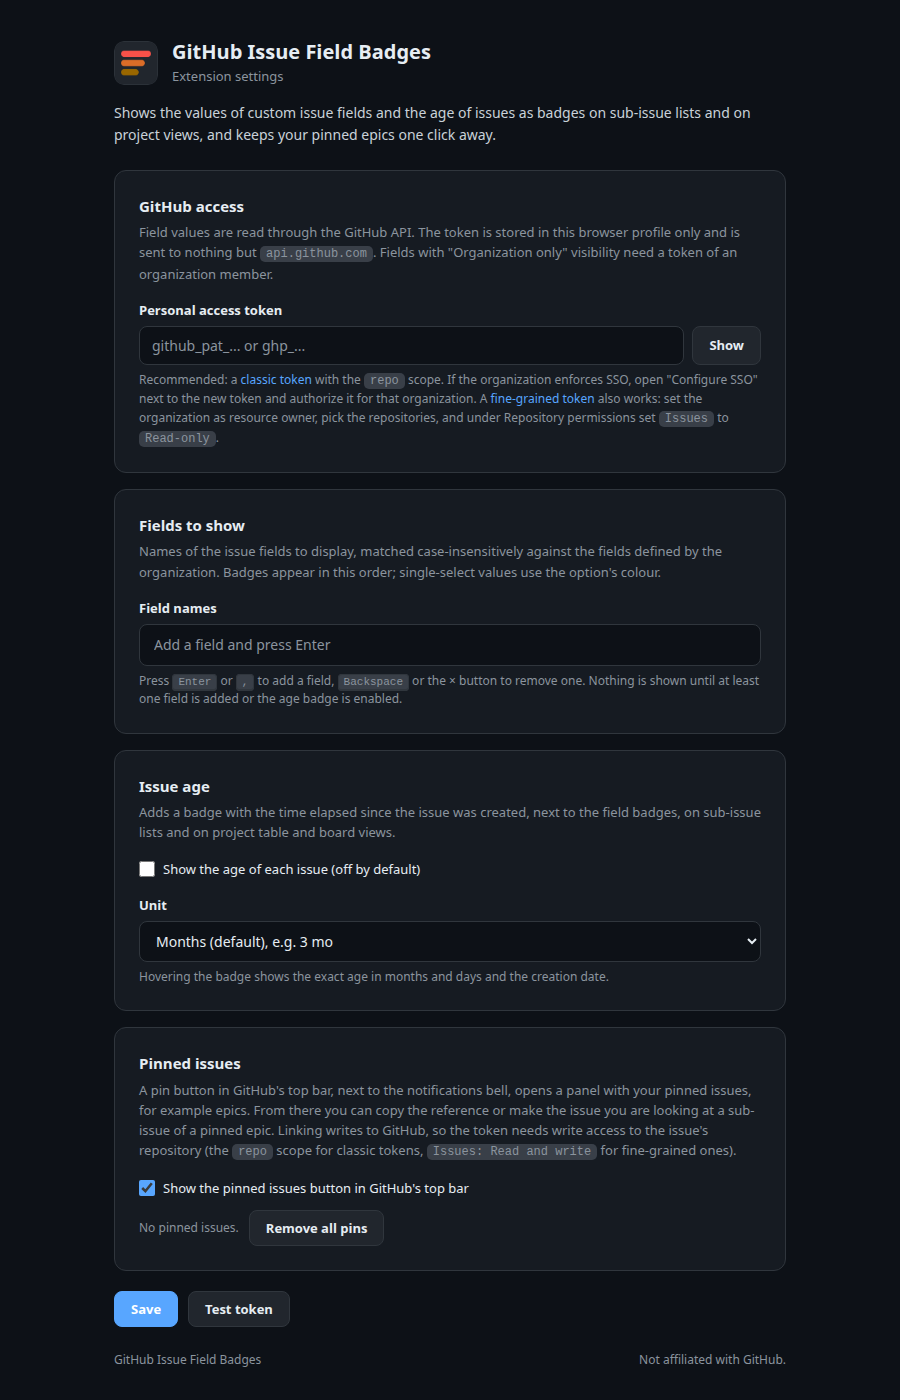
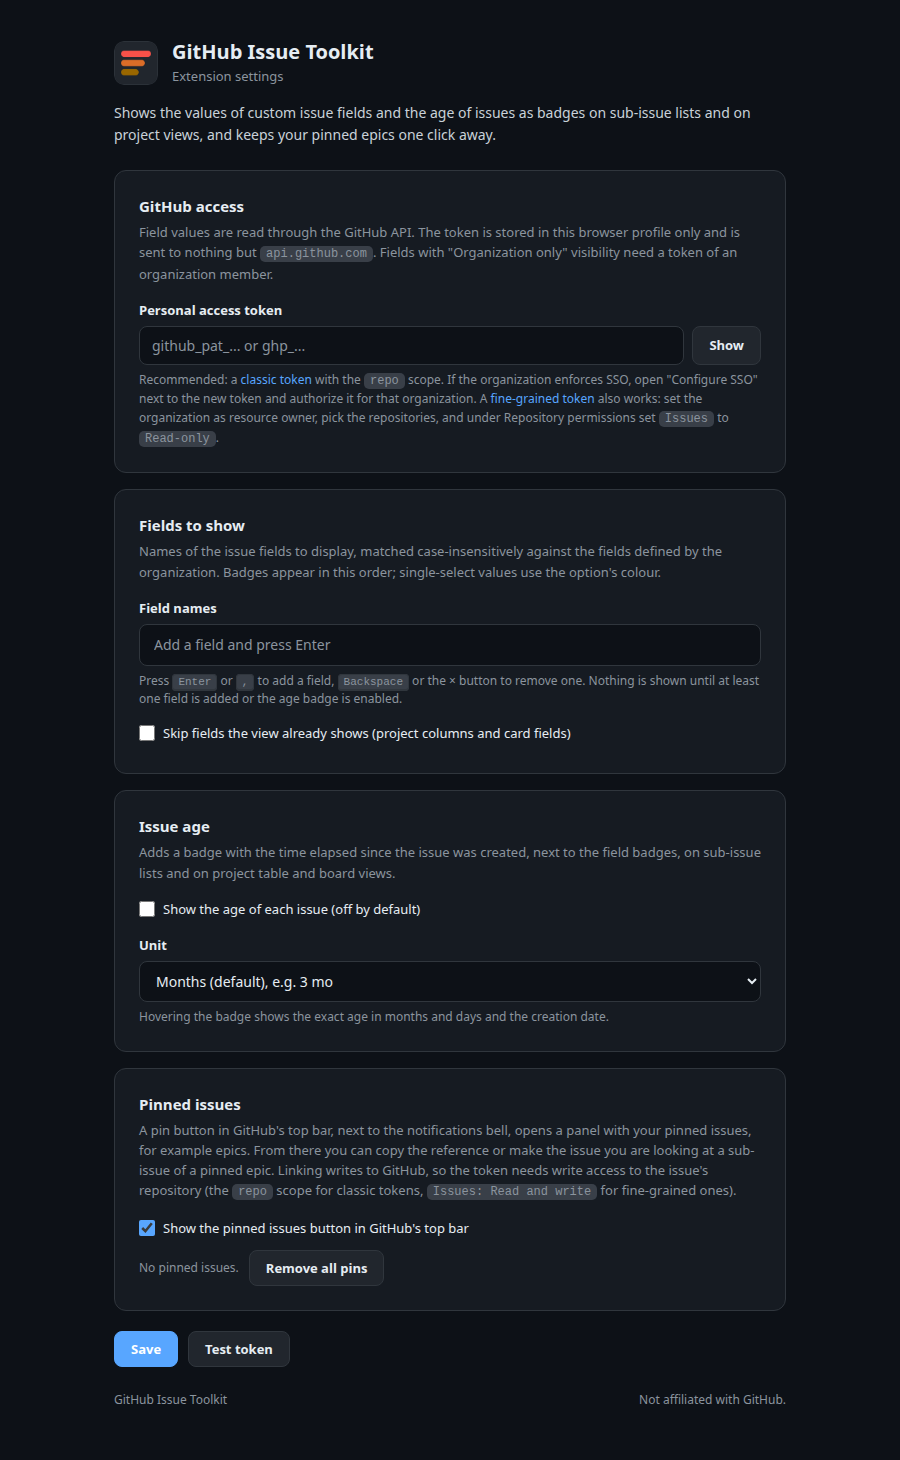
feat(projects): skip fields the view already shows
A project view often displays some of the same fields the badges carry, as a column in the table layout or as a field chip on a board card, so the badge only repeated what was already on screen.

- Board cards: the fields GitHub renders in the card's "Fields" list are read from their "Field: value" tooltips and matching badges are not added.
- Table layout: column names are read from the grid's column headers, taking the header's first text and ignoring the "column options" menu label, and matching badges are not added.
- A new setting on the fields card, on by default, turns the behaviour off for people who want the badge regardless.
- README, site, changelog and settings screenshots describe the option; manifests and the version chip fallback move to the new patch version.

diff --git a/docs/index.html b/docs/index.html
@@ -273,7 +273,7 @@
       <img class="only-dark" src="icon-dark-48.png" alt="">
       <img class="only-light" src="icon-light-48.png" alt="">
       <a class="brand" href="#top">GitHub Issue Toolkit</a>
-      <a class="version" id="version" href="https://github.com/MilosPaunovic/github-issue-toolkit/releases/latest" title="Latest release">v2.0.4</a>
+      <a class="version" id="version" href="https://github.com/MilosPaunovic/github-issue-toolkit/releases/latest" title="Latest release">v2.0.5</a>
       <div class="links" id="site-menu">
         <a class="link" href="#what">What it does</a>
         <a class="link" href="#examples">Examples</a>
@@ -336,7 +336,7 @@
         <div class="card"><h3>Any field, any type</h3><p>Single-select, multi-select, text, number and date fields all work. Single-select badges use the colour of the chosen option, so a red option stays red.</p></div>
         <div class="card"><h3>You pick the fields</h3><p>Choose which fields to show and in what order on the settings page. One field or five, per your workflow.</p></div>
         <div class="card"><h3>One request per page</h3><p>All visible rows, across repositories, are fetched in batched GitHub GraphQL queries of 60 issues. Results are cached for five minutes.</p></div>
-        <div class="card"><h3>Projects views too</h3><p>The same badges appear on GitHub Projects: after the issue number in the table layout, under the title on board cards. Draft items and pull requests are left alone.</p></div>
+        <div class="card"><h3>Projects views too</h3><p>The same badges appear on GitHub Projects: after the issue number in the table layout, under the title on board cards. A field the view already shows, as a column or a card field, is skipped so nothing appears twice. Draft items and pull requests are left alone.</p></div>
         <div class="card"><h3>Issue age, if you want it</h3><p>An optional gray badge shows how long ago each issue was created, in months, weeks or days. Off by default, one checkbox in the settings.</p></div>
         <div class="card"><h3>Pinned epics</h3><p>A pin button in GitHub's top bar keeps your epics one click away: copy their reference, or make the issue you are looking at a sub-issue of one. Optional as well.</p></div>
         <div class="card"><h3>Clickable</h3><p>Each badge links to the repository's issue search filtered by that field value, the same way GitHub's own field badges do.</p></div>
@@ -352,7 +352,7 @@
       <p class="muted">The same badges follow you to Projects views, an optional age badge tells you how long an issue has been open, and the pinned issues panel keeps your epics one click away. Illustrations of an invented repository, with a field named Priority as the example.</p>
 
       <h3 style="margin-top:8px">Projects table view</h3>
-      <p class="muted" style="font-size:14px">Badges come right after the issue number in the title cell, so a table needs no extra columns.</p>
+      <p class="muted" style="font-size:14px">Badges come right after the issue number in the title cell, so a table needs no extra columns. Fields that already have a column in the view are not repeated.</p>
       <div class="mock-table gh-card" id="ex-table" style="max-width:900px">
         <div class="tr th"><div class="td n"></div><div class="td"></div><div class="td">Title</div><div class="td">Status</div><div class="td">Assignees</div><div class="td">Labels</div></div>
         <div class="tr"><div class="td n">1</div><div class="td"><svg class="state" viewBox="0 0 16 16" aria-label="Open" role="img"><path d="M8 9.5a1.5 1.5 0 1 0 0-3 1.5 1.5 0 0 0 0 3Z"/><path d="M8 0a8 8 0 1 1 0 16A8 8 0 0 1 8 0ZM1.5 8a6.5 6.5 0 1 0 13 0 6.5 6.5 0 0 0-13 0Z"/></svg></div><div class="td title"><span class="name">Search results ignore the selected date range</span><span class="num">#1482</span><span class="badge b-severe">P1: Must Have</span><span class="badge b-neutral">7 mo</span></div><div class="td"><span class="status" style="--status: var(--attention)">In progress</span></div><div class="td"><span class="avatar a1"></span></div><div class="td labels"><span class="label b-info">area/search</span></div></div>

diff --git a/content.js b/content.js
@@ -9,7 +9,7 @@
   const pending = new Set();
   let scheduled = null;
   let noticeShown = false;
-  let settings = { ageEnabled: false, ageUnit: "months", pinsEnabled: true };
+  let settings = { ageEnabled: false, ageUnit: "months", pinsEnabled: true, skipShownFields: true };
   let pins = [];
   let pinsCollapsed = true;
 
@@ -144,6 +144,29 @@
     return rows;
   }
 
+  // Fields GitHub already displays for this row, so the badge would only repeat them:
+  // board cards list them under a "Fields" list whose chips carry a "Field: value" tooltip,
+  // table views show them as columns.
+  function shownFields(row) {
+    const names = new Set();
+    if (row.kind === "board") {
+      for (const chip of row.content.querySelectorAll('ul[aria-label="Fields"] li, [data-testid*="card-field"], [class*="cardLabel"]')) {
+        const text = (chip.querySelector('[data-component="Tooltip"]') || chip).textContent.trim();
+        const m = /^([^:]{1,60}):\s/.exec(text);
+        if (m) names.add(m[1].trim().toLowerCase());
+      }
+    } else if (row.kind === "table") {
+      const grid = row.content.closest('[role="grid"]');
+      for (const th of grid ? grid.querySelectorAll('[role="columnheader"]') : []) {
+        // The header holds the column name followed by a "<name> column options" menu label; take the first leaf.
+        const leaf = [...th.querySelectorAll("*")].find((el) => el.children.length === 0 && el.textContent.trim());
+        const text = (leaf ? leaf.textContent : th.textContent).replace(/\s*column options$/i, "").trim().toLowerCase();
+        if (text) names.add(text);
+      }
+    }
+    return names;
+  }
+
   function findAnchorSlot(row) {
     if (row.kind === "table") {
       return { parent: row.titleLink.parentElement, before: null };
@@ -194,7 +217,8 @@
   // ---------------------------------------------------------------------------
 
   function render(row, hit) {
-    const values = (hit && hit.values) || [];
+    const already = settings.skipShownFields ? shownFields(row) : new Set();
+    const values = ((hit && hit.values) || []).filter((v) => !already.has(String(v.field).toLowerCase()));
     const scope = row.content.contains(row.titleLink) ? row.content : row.titleLink.parentElement;
     scope.querySelectorAll(`.gsf-badge[data-gsf-for="${row.ref.key}"]`).forEach((el) => el.remove());
     row.titleLink.parentElement.querySelectorAll(`.gsf-badge[data-gsf-for="${row.ref.key}"]`).forEach((el) => el.remove());
@@ -831,7 +855,8 @@
 
   api.storage.onChanged.addListener((changes, area) => {
     if (area !== "local") return;
-    if (changes.token || changes.fields || changes.ageEnabled || changes.ageUnit) {
+    if (changes.token || changes.fields || changes.ageEnabled || changes.ageUnit || changes.skipShownFields) {
+      if (changes.skipShownFields) settings.skipShownFields = changes.skipShownFields.newValue !== false;
       if (changes.ageEnabled) settings.ageEnabled = changes.ageEnabled.newValue === true;
       if (changes.ageUnit) settings.ageUnit = changes.ageUnit.newValue || "months";
       clearBadges();
@@ -849,7 +874,8 @@
     }
   });
 
-  api.storage.local.get(["ageEnabled", "ageUnit", "pinsEnabled", "pins"]).then((stored) => {
+  api.storage.local.get(["ageEnabled", "ageUnit", "pinsEnabled", "skipShownFields", "pins"]).then((stored) => {
+    settings.skipShownFields = stored.skipShownFields !== false;
     settings.ageEnabled = stored.ageEnabled === true;
     settings.ageUnit = stored.ageUnit || "months";
     settings.pinsEnabled = stored.pinsEnabled !== false;

diff --git a/options.js b/options.js
@@ -6,6 +6,7 @@ const toggle = document.getElementById("toggle");
 const ageEnabled = document.getElementById("age-enabled");
 const ageUnit = document.getElementById("age-unit");
 const pinsEnabledInput = document.getElementById("pins-enabled");
+const skipShownInput = document.getElementById("skip-shown");
 const pinsCount = document.getElementById("pins-count");
 const api = typeof browser !== "undefined" && browser.runtime ? browser : (typeof chrome !== "undefined" ? chrome : undefined);
 const hasChrome = Boolean(api && api.storage && api.runtime);
@@ -90,12 +91,13 @@ if (hasChrome) {
     setStatus(ok ? "Access to github.com granted." : "Access was not granted.", ok);
     refreshAccess();
   });
-  api.storage.local.get(["token", "fields", "ageEnabled", "ageUnit", "pinsEnabled", "pins"]).then((stored) => {
+  api.storage.local.get(["token", "fields", "ageEnabled", "ageUnit", "pinsEnabled", "skipShownFields", "pins"]).then((stored) => {
     tokenInput.value = stored.token || "";
     fields = parseFields(stored.fields);
     renderChips();
     ageEnabled.checked = stored.ageEnabled === true;
     pinsEnabledInput.checked = stored.pinsEnabled !== false;
+    skipShownInput.checked = stored.skipShownFields !== false;
     ageUnit.value = stored.ageUnit || "months";
     renderPinsCount(stored.pins);
   });
@@ -124,7 +126,7 @@ document.getElementById("save").addEventListener("click", async () => {
   const token = tokenInput.value.trim();
   const fieldList = fields.join(", ");
   if (!hasChrome) return setStatus("Preview mode: nothing saved.", false);
-  await api.storage.local.set({ token, fields: fieldList, ageEnabled: ageEnabled.checked, ageUnit: ageUnit.value, pinsEnabled: pinsEnabledInput.checked });
+  await api.storage.local.set({ token, fields: fieldList, ageEnabled: ageEnabled.checked, ageUnit: ageUnit.value, pinsEnabled: pinsEnabledInput.checked, skipShownFields: skipShownInput.checked });
   if (!token) setStatus("Saved without a token. Badges need one.", false);
   else if (!fields.length && !ageEnabled.checked) setStatus("Saved without any field. Add a field or enable the age badge to show badges.", false);
   else setStatus("Saved. Reload the GitHub tab if badges do not appear.", true);

diff --git a/options.html b/options.html
@@ -174,6 +174,7 @@
         <input id="field-input" type="text" spellcheck="false" autocomplete="off" placeholder="Add a field and press Enter">
       </div>
       <p class="hint">Press <kbd>Enter</kbd> or <kbd>,</kbd> to add a field, <kbd>Backspace</kbd> or the × button to remove one. Nothing is shown until at least one field is added or the age badge is enabled.</p>
+      <label class="check" style="margin-top:14px"><input id="skip-shown" type="checkbox"> Skip fields the view already shows (project columns and card fields)</label>
     </section>
 
     <section class="card">

diff --git a/CHANGELOG.md b/CHANGELOG.md
@@ -6,6 +6,12 @@ All notable changes to this project are documented here. The format follows [Kee
 
 Nothing yet.
 
+## [2.0.5] - 2026-09-09
+
+### Added
+
+- On Projects views, fields that the view already displays are skipped: a column in the table layout, or a field chip on a board card. A setting on the fields card turns this off.
+
 ## [2.0.4] - 2026-09-09
 
 ### Fixed
@@ -82,7 +88,8 @@ First release.
 
 - The token is stored with `chrome.storage.local` on the device and is sent only to `https://api.github.com/graphql`. No analytics or third-party services. See [PRIVACY.md](PRIVACY.md).
 
-[Unreleased]: https://github.com/MilosPaunovic/github-issue-toolkit/compare/v2.0.4...HEAD
+[Unreleased]: https://github.com/MilosPaunovic/github-issue-toolkit/compare/v2.0.5...HEAD
+[2.0.5]: https://github.com/MilosPaunovic/github-issue-toolkit/releases/tag/v2.0.5
 [2.0.4]: https://github.com/MilosPaunovic/github-issue-toolkit/releases/tag/v2.0.4
 [2.0.3]: https://github.com/MilosPaunovic/github-issue-toolkit/releases/tag/v2.0.3
 [2.0.2]: https://github.com/MilosPaunovic/github-issue-toolkit/releases/tag/v2.0.2

diff --git a/README.md b/README.md
@@ -60,7 +60,7 @@ Illustrations of an invented repository, rendered from the documentation site wi
 ## Features
 
 - Badges appear next to the issue type on each sub-issue row, in the option's colour.
-- The same badges appear on GitHub Projects views: after the issue number in the table layout, under the title on board cards.
+- The same badges appear on GitHub Projects views: after the issue number in the table layout, under the title on board cards. Fields the view already shows, as a column or as a card field, are skipped so nothing appears twice (can be turned off in the settings).
 - An optional **age** badge shows how old each issue is, in months (`3 mo`), weeks or days. Off by default.
 - A **Pinned issues** button in GitHub's top bar: pin epics, copy their reference, or make the issue you are looking at a sub-issue of a pinned epic with one click. Can be switched off in the settings.
 - Any field type works: single-select, multi-select, text, number, date.
